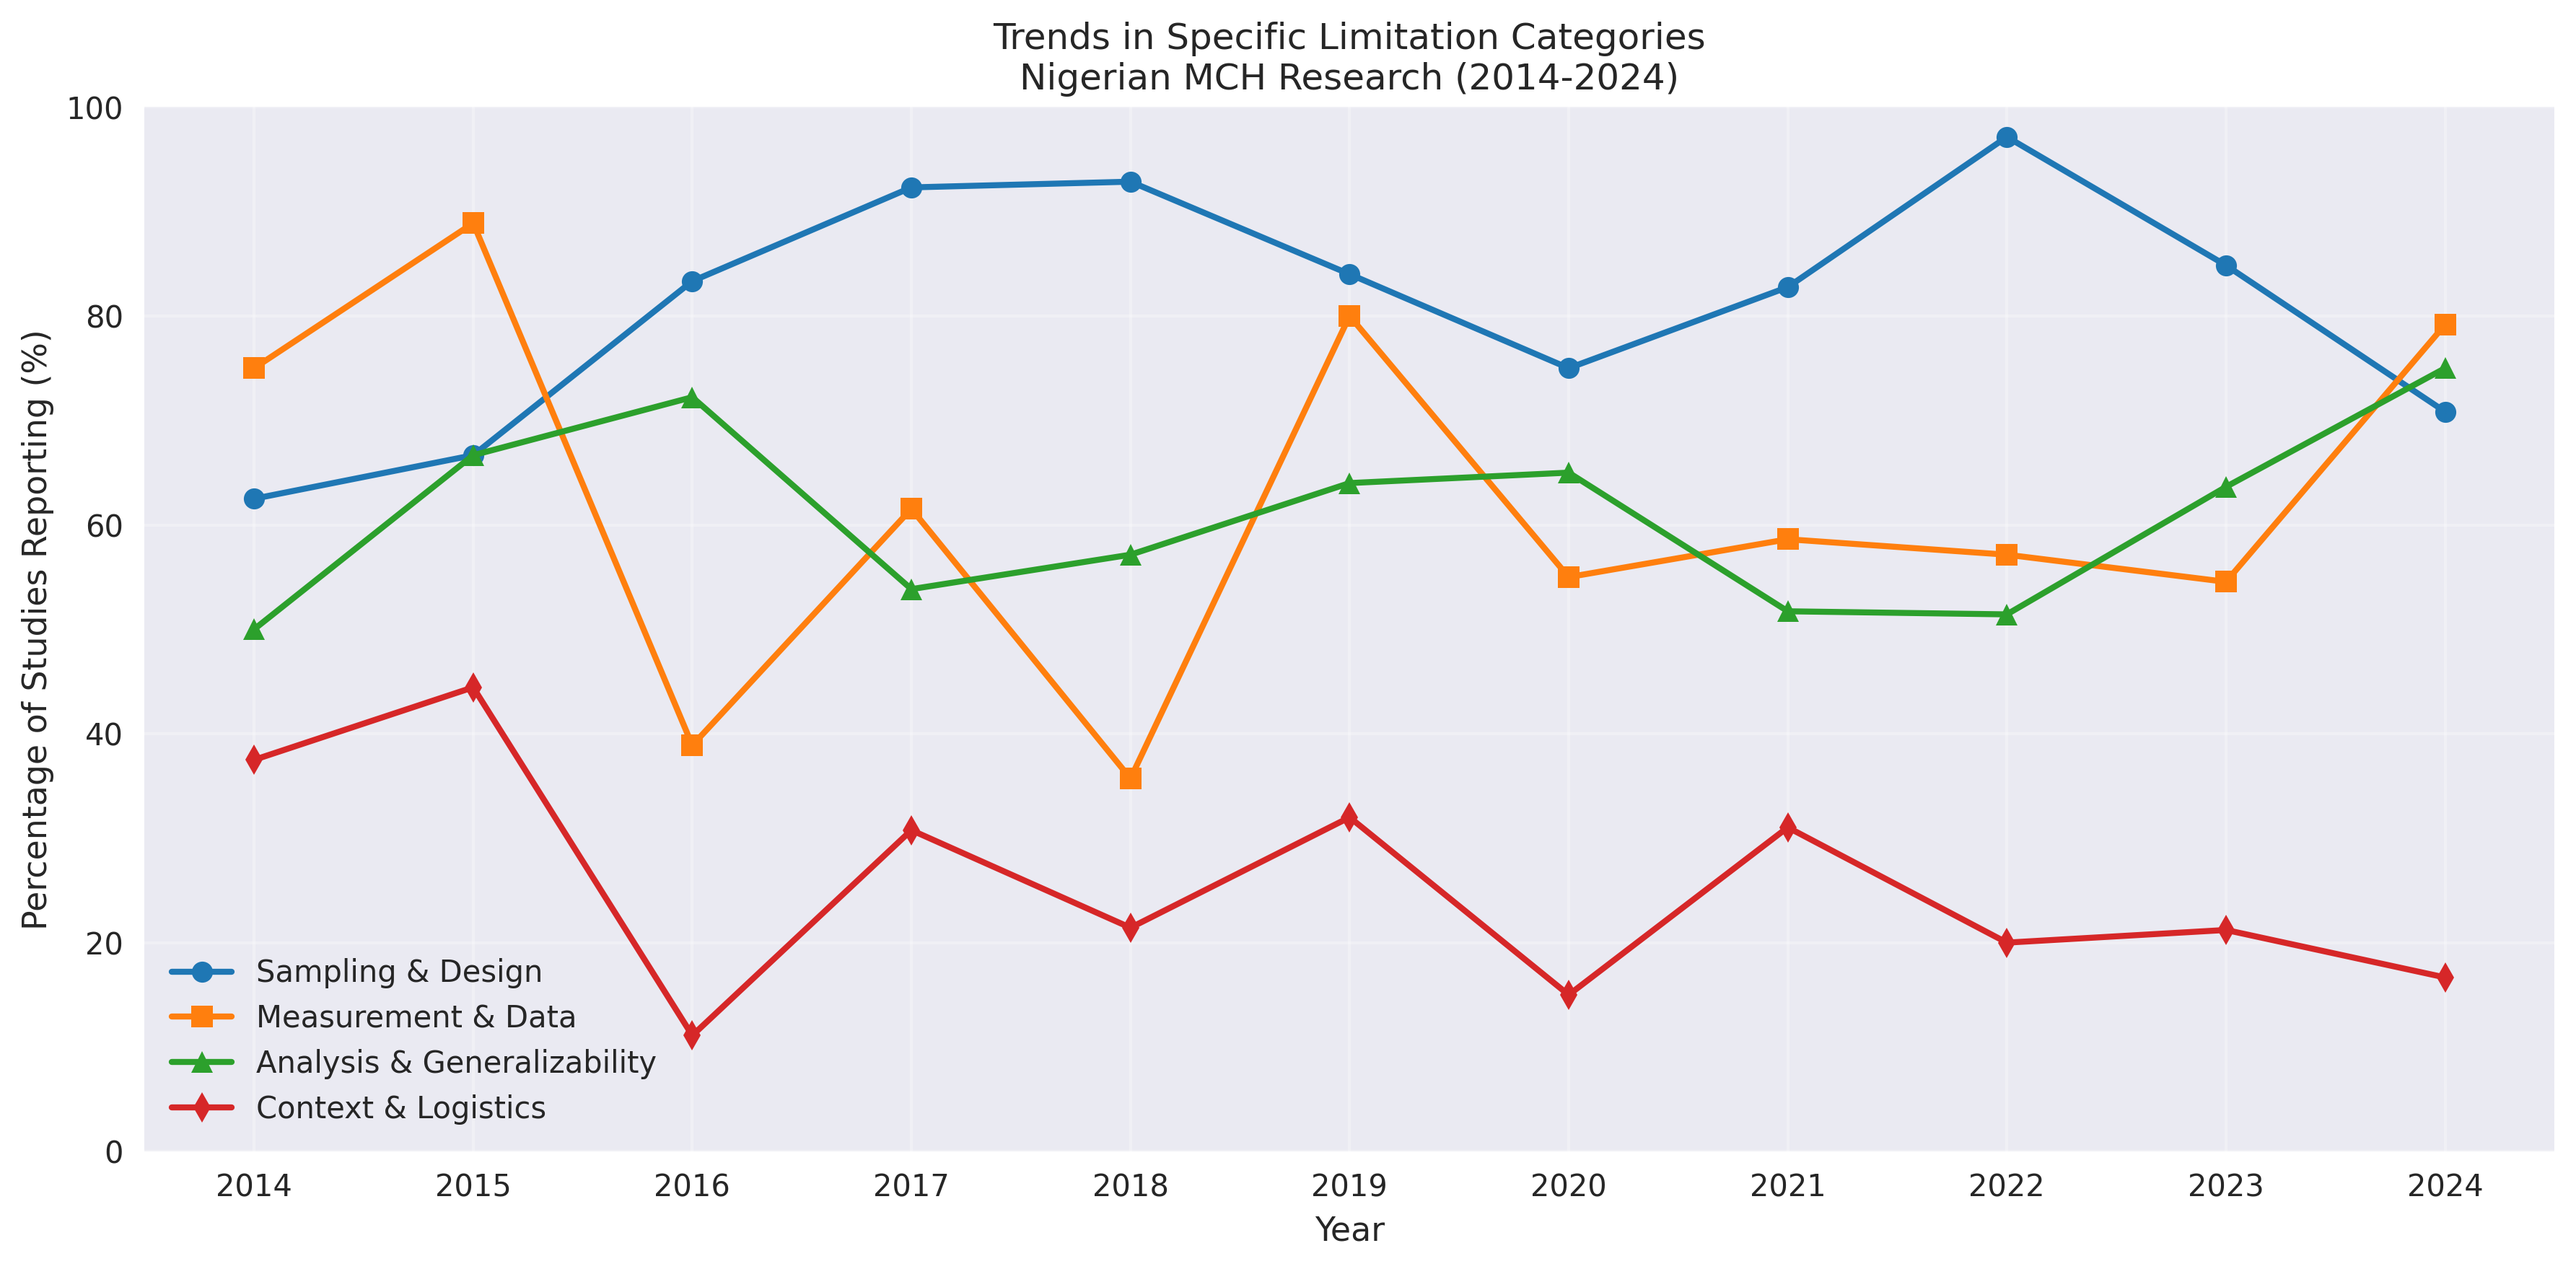
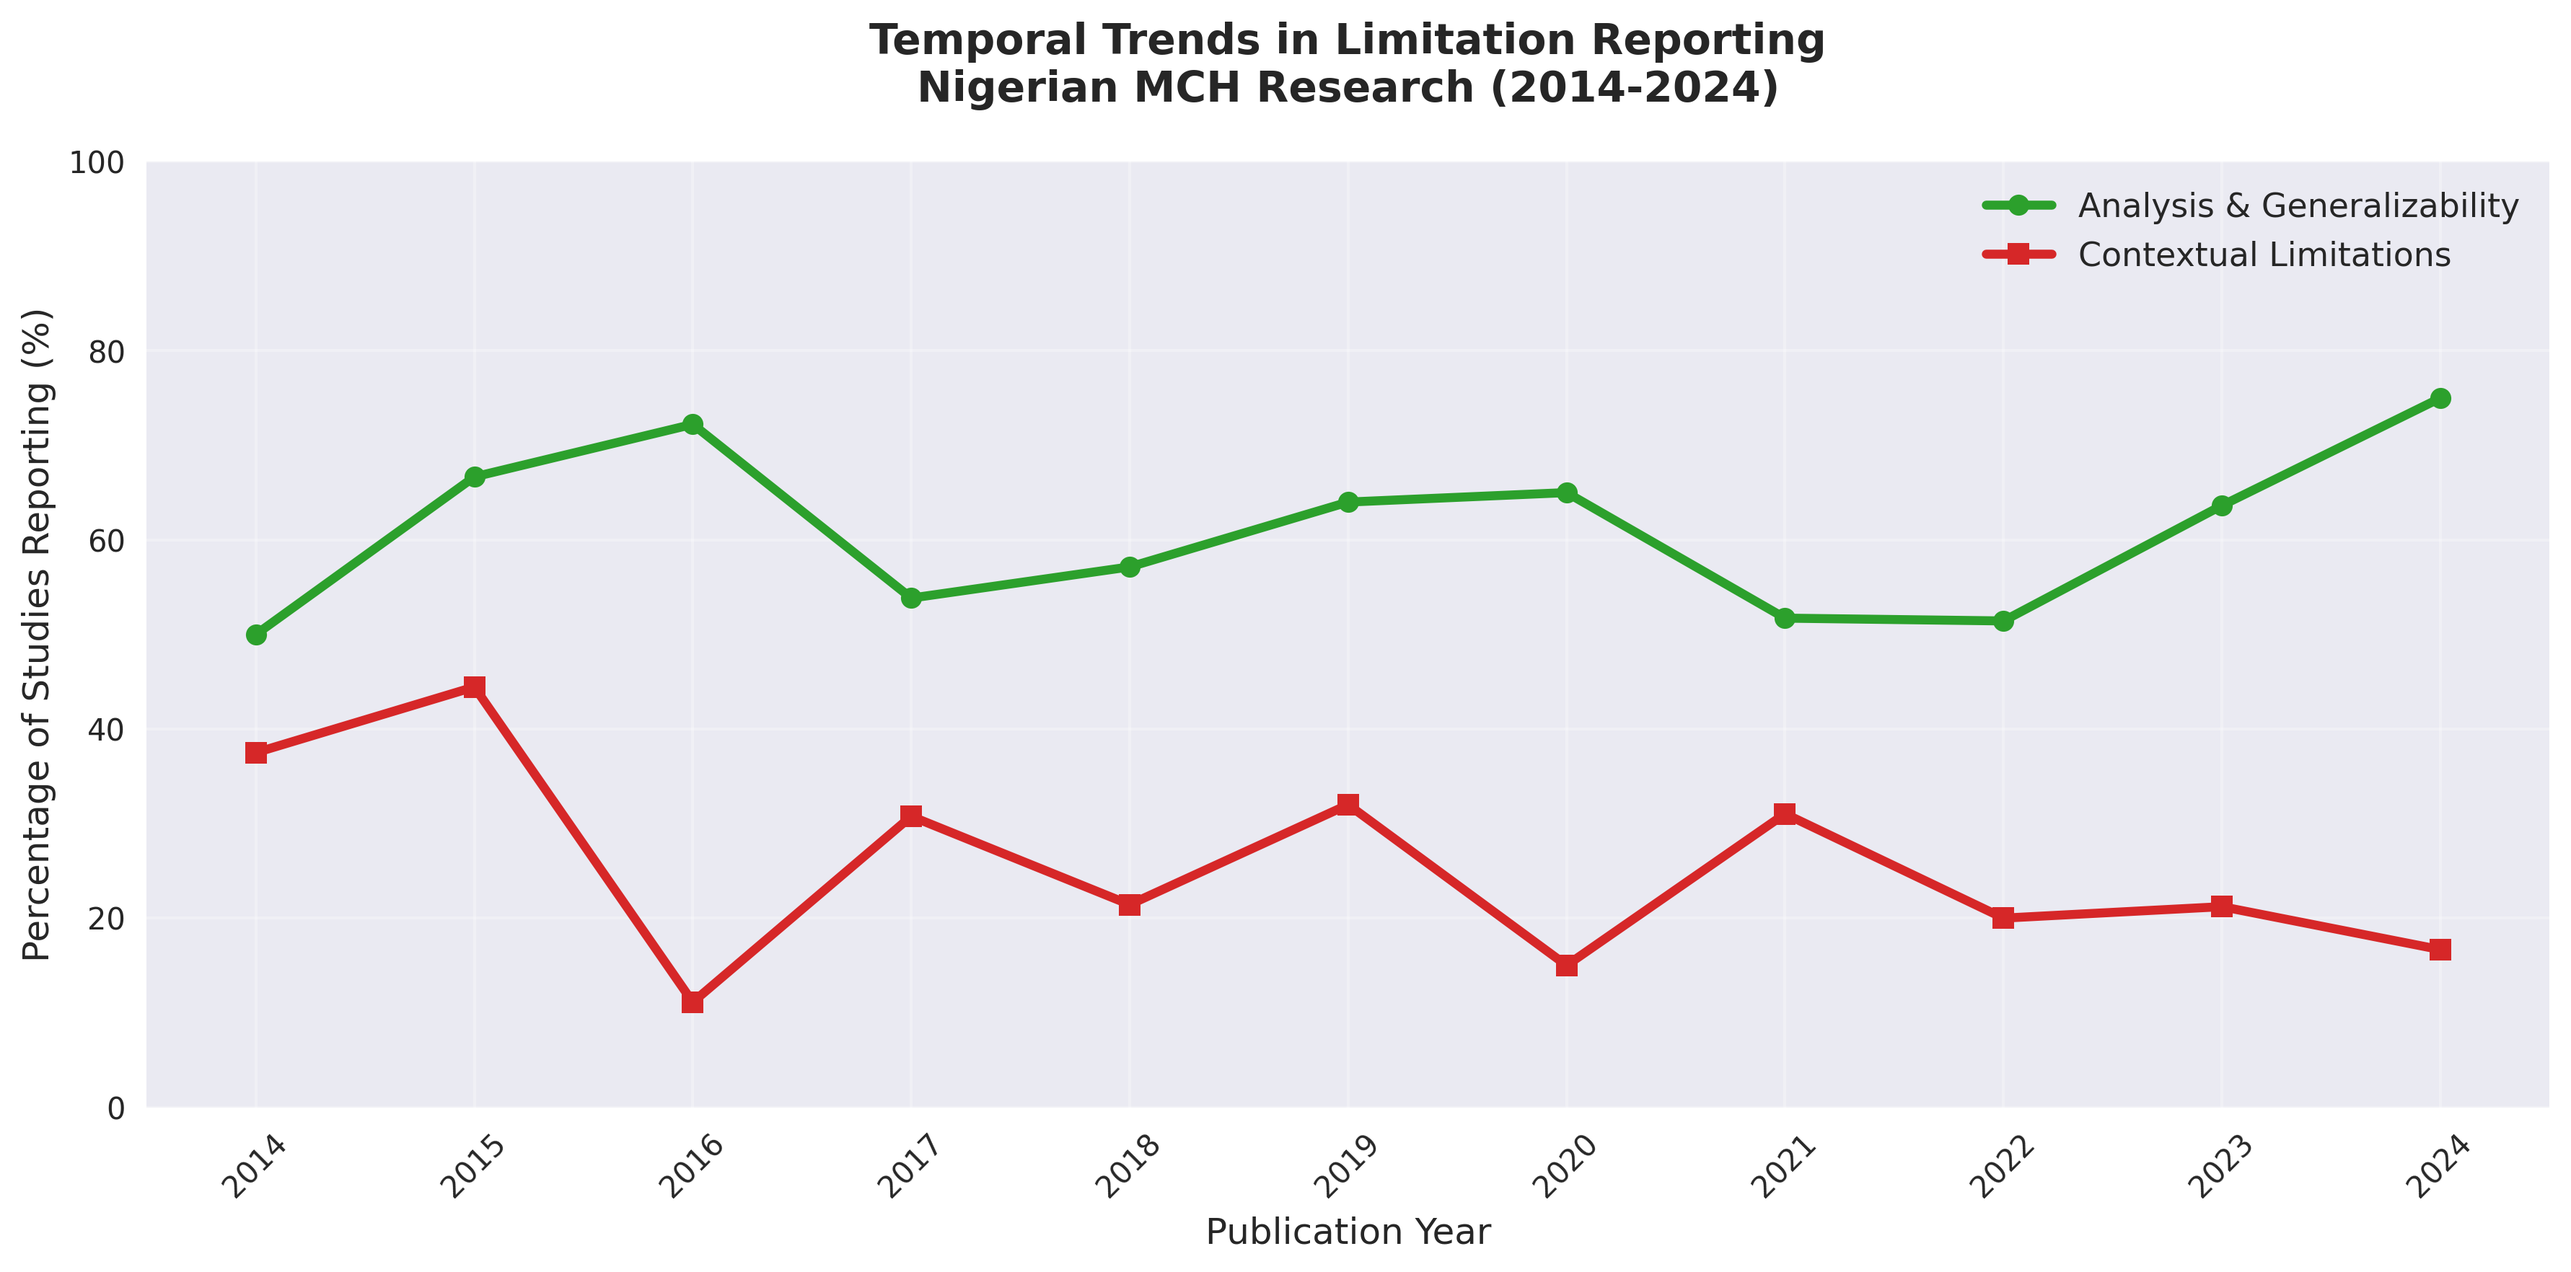
fix: Correct trends analysis to show actual generalizability patterns
- Track broad ANALYSIS & GENERALIZABILITY category instead of specific codes
- Reveals meaningful insight: 50% to 75% increase in methodological awareness
- Contextual limitations decreased from 37.5% to 16.7%

diff --git a/scripts/clean_analysis.py b/scripts/clean_analysis.py
@@ -338,15 +338,12 @@ def analyze_regional_comparison(df, limitation_columns):
     return comparison_df
 
 def analyze_trends_over_time(df, limitation_columns):
-    """Analyze trends in specific limitation categories over time (2014-2024)"""
     print("\n=== 5. TRENDS OVER TIME (2014-2024) ===")
     
-    # Ensure we have year data
     df['Year'] = pd.to_numeric(df['Year of publication'], errors='coerce')
     df = df.dropna(subset=['Year'])
     df['Year'] = df['Year'].astype(int)
     
-    # Use more specific limitation categories instead of broad methodological/contextual
     trends_data = []
     years = sorted(df['Year'].unique())
     
@@ -355,57 +352,43 @@ def analyze_trends_over_time(df, limitation_columns):
         if len(year_studies) == 0:
             continue
             
-        # Calculate percentages for specific limitation categories
-        sampling_count = year_studies['-- SAMPLING & DESIGN --'].notna().sum()
-        sampling_pct = (sampling_count / len(year_studies)) * 100
+        analysis_gen_count = year_studies['-- ANALYSIS & GENERALIZABILITY --'].notna().sum()
+        analysis_gen_pct = (analysis_gen_count / len(year_studies)) * 100
         
-        measurement_count = year_studies['-- MEASUREMENT & DATA --'].notna().sum()
-        measurement_pct = (measurement_count / len(year_studies)) * 100
-        
-        analysis_count = year_studies['-- ANALYSIS & GENERALIZABILITY --'].notna().sum()
-        analysis_pct = (analysis_count / len(year_studies)) * 100
-        
-        context_count = year_studies['-- CONTEXT & LOGISTICS --'].notna().sum()
-        context_pct = (context_count / len(year_studies)) * 100
+        contextual_count = year_studies['-- CONTEXT & LOGISTICS --'].notna().sum()
+        contextual_pct = (contextual_count / len(year_studies)) * 100
         
         trends_data.append({
             'Year': year,
-            'Sampling_Design_Percentage': sampling_pct,
-            'Measurement_Data_Percentage': measurement_pct,
-            'Analysis_Generalizability_Percentage': analysis_pct,
-            'Context_Logistics_Percentage': context_pct,
+            'Analysis_Generalizability_Percentage': analysis_gen_pct,
+            'Contextual_Percentage': contextual_pct,
             'Total_Studies': len(year_studies)
         })
     
     trends_df = pd.DataFrame(trends_data)
     
-    print("Trends in limitation categories over time:")
-    print(trends_df[['Year', 'Sampling_Design_Percentage', 'Measurement_Data_Percentage', 
-                     'Analysis_Generalizability_Percentage', 'Context_Logistics_Percentage', 'Total_Studies']])
+    print("Trends in analysis/generalizability and contextual limitations:")
+    print(trends_df[['Year', 'Analysis_Generalizability_Percentage', 'Contextual_Percentage', 'Total_Studies']])
     
-    # Visualization - Trends for specific categories
     plt.figure(figsize=(12, 6))
     
-    plt.plot(trends_df['Year'], trends_df['Sampling_Design_Percentage'], 
-             marker='o', linewidth=2, label='Sampling & Design', color='#1f77b4')
-    plt.plot(trends_df['Year'], trends_df['Measurement_Data_Percentage'], 
-             marker='s', linewidth=2, label='Measurement & Data', color='#ff7f0e')
     plt.plot(trends_df['Year'], trends_df['Analysis_Generalizability_Percentage'], 
-             marker='^', linewidth=2, label='Analysis & Generalizability', color='#2ca02c')
-    plt.plot(trends_df['Year'], trends_df['Context_Logistics_Percentage'], 
-             marker='d', linewidth=2, label='Context & Logistics', color='#d62728')
+             marker='o', linewidth=3, label='Analysis & Generalizability', color='#2ca02c')
+    plt.plot(trends_df['Year'], trends_df['Contextual_Percentage'], 
+             marker='s', linewidth=3, label='Contextual Limitations', color='#d62728')
     
-    plt.xlabel('Year')
-    plt.ylabel('Percentage of Studies Reporting (%)')
-    plt.title('Trends in Specific Limitation Categories\nNigerian MCH Research (2014-2024)')
-    plt.legend()
+    plt.xlabel('Publication Year', fontsize=12)
+    plt.ylabel('Percentage of Studies Reporting (%)', fontsize=12)
+    plt.title('Temporal Trends in Limitation Reporting\nNigerian MCH Research (2014-2024)', 
+              fontsize=14, fontweight='bold', pad=20)
+    plt.legend(fontsize=11)
     plt.grid(True, alpha=0.3)
-    plt.xticks(years)
+    plt.xticks(years, rotation=45)
     plt.ylim(0, 100)
     
     plt.tight_layout()
     plt.savefig('outputs/figures/05_trends_over_time.png', dpi=300, bbox_inches='tight')
-    plt.show()
+    plt.close()
     
     return trends_df
 
